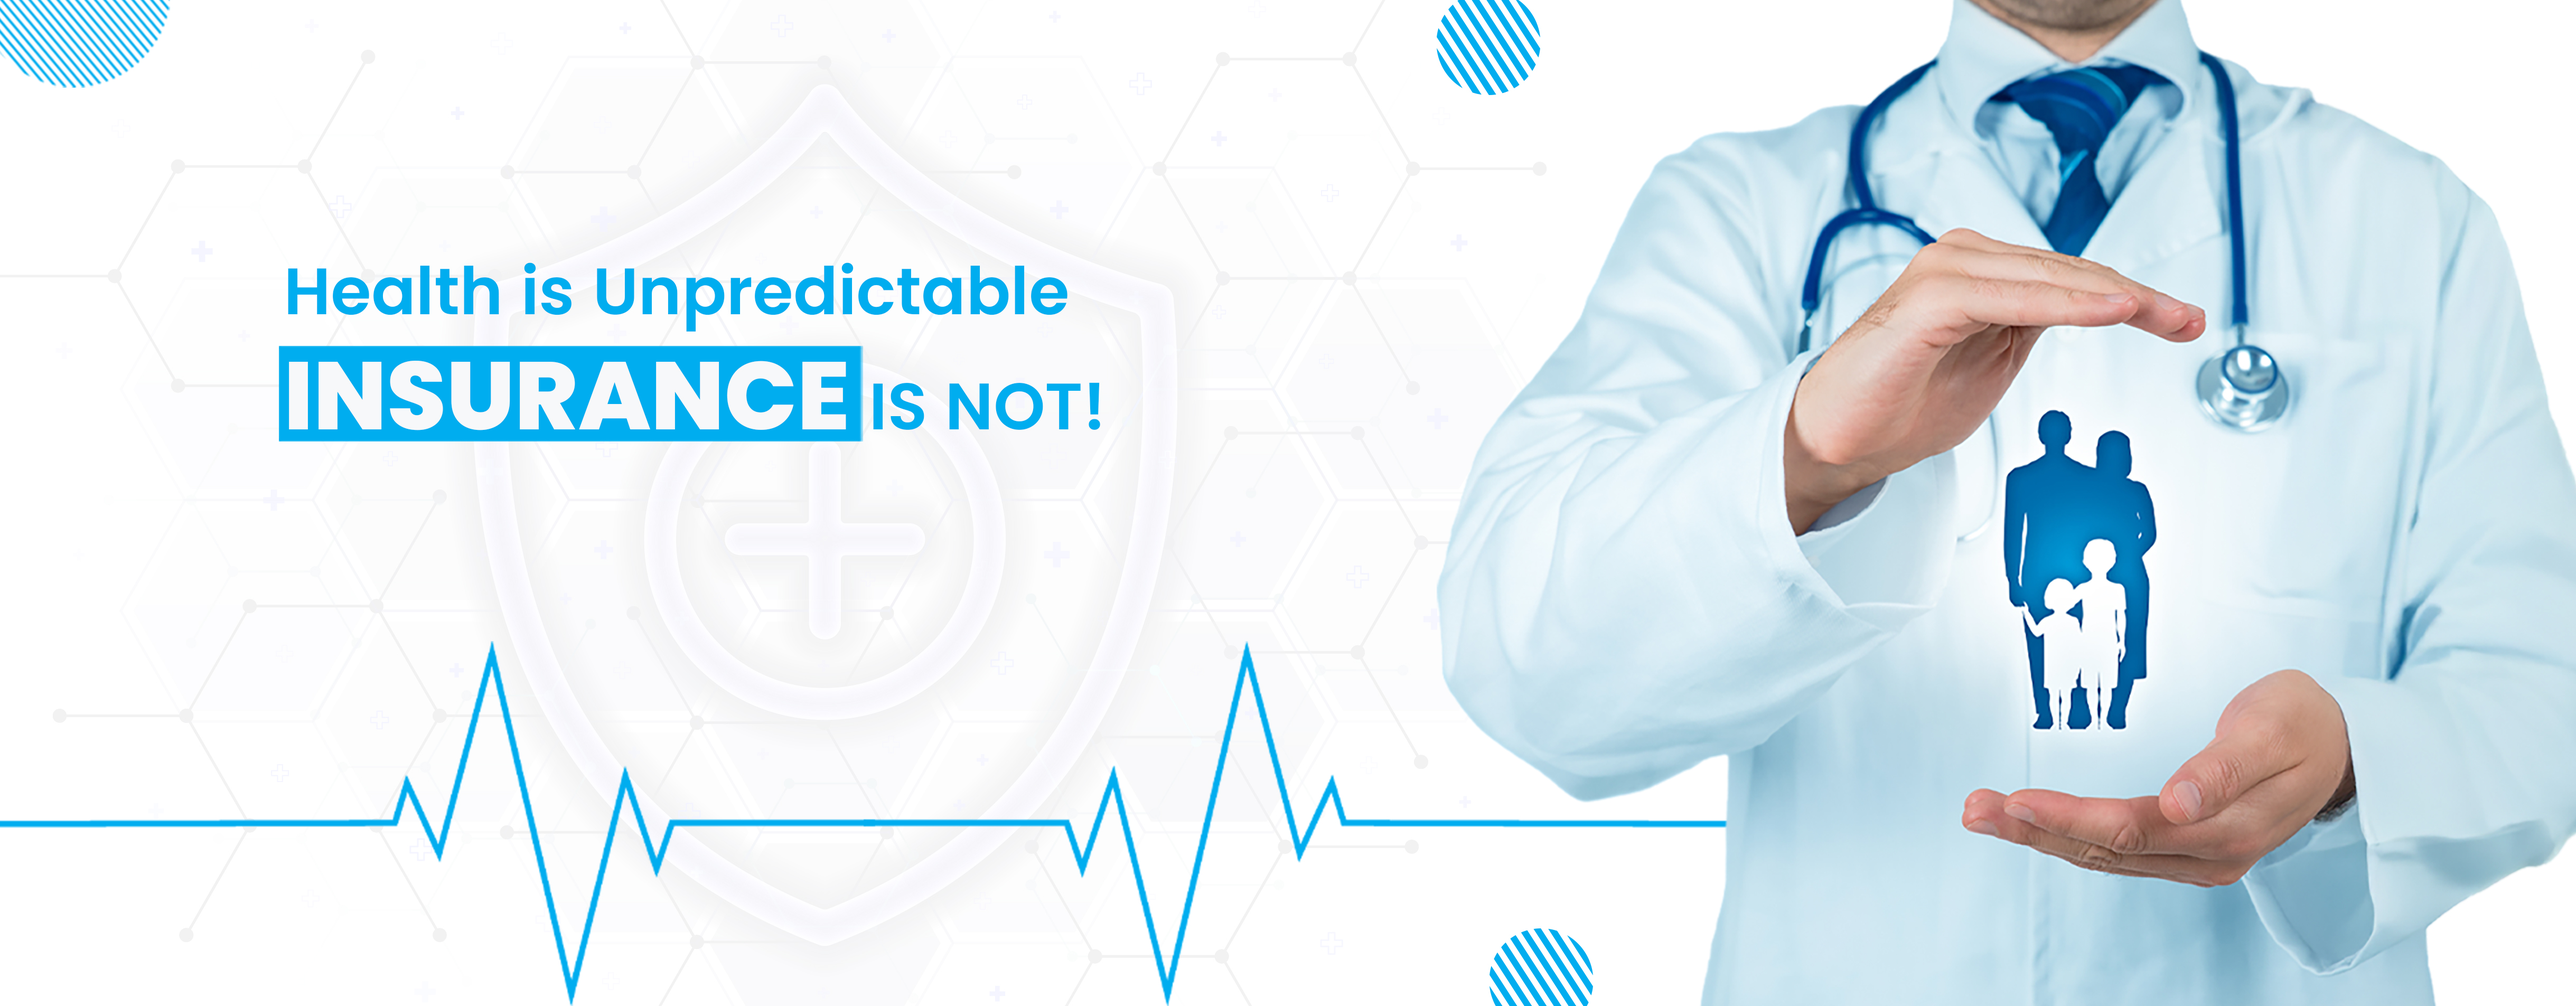
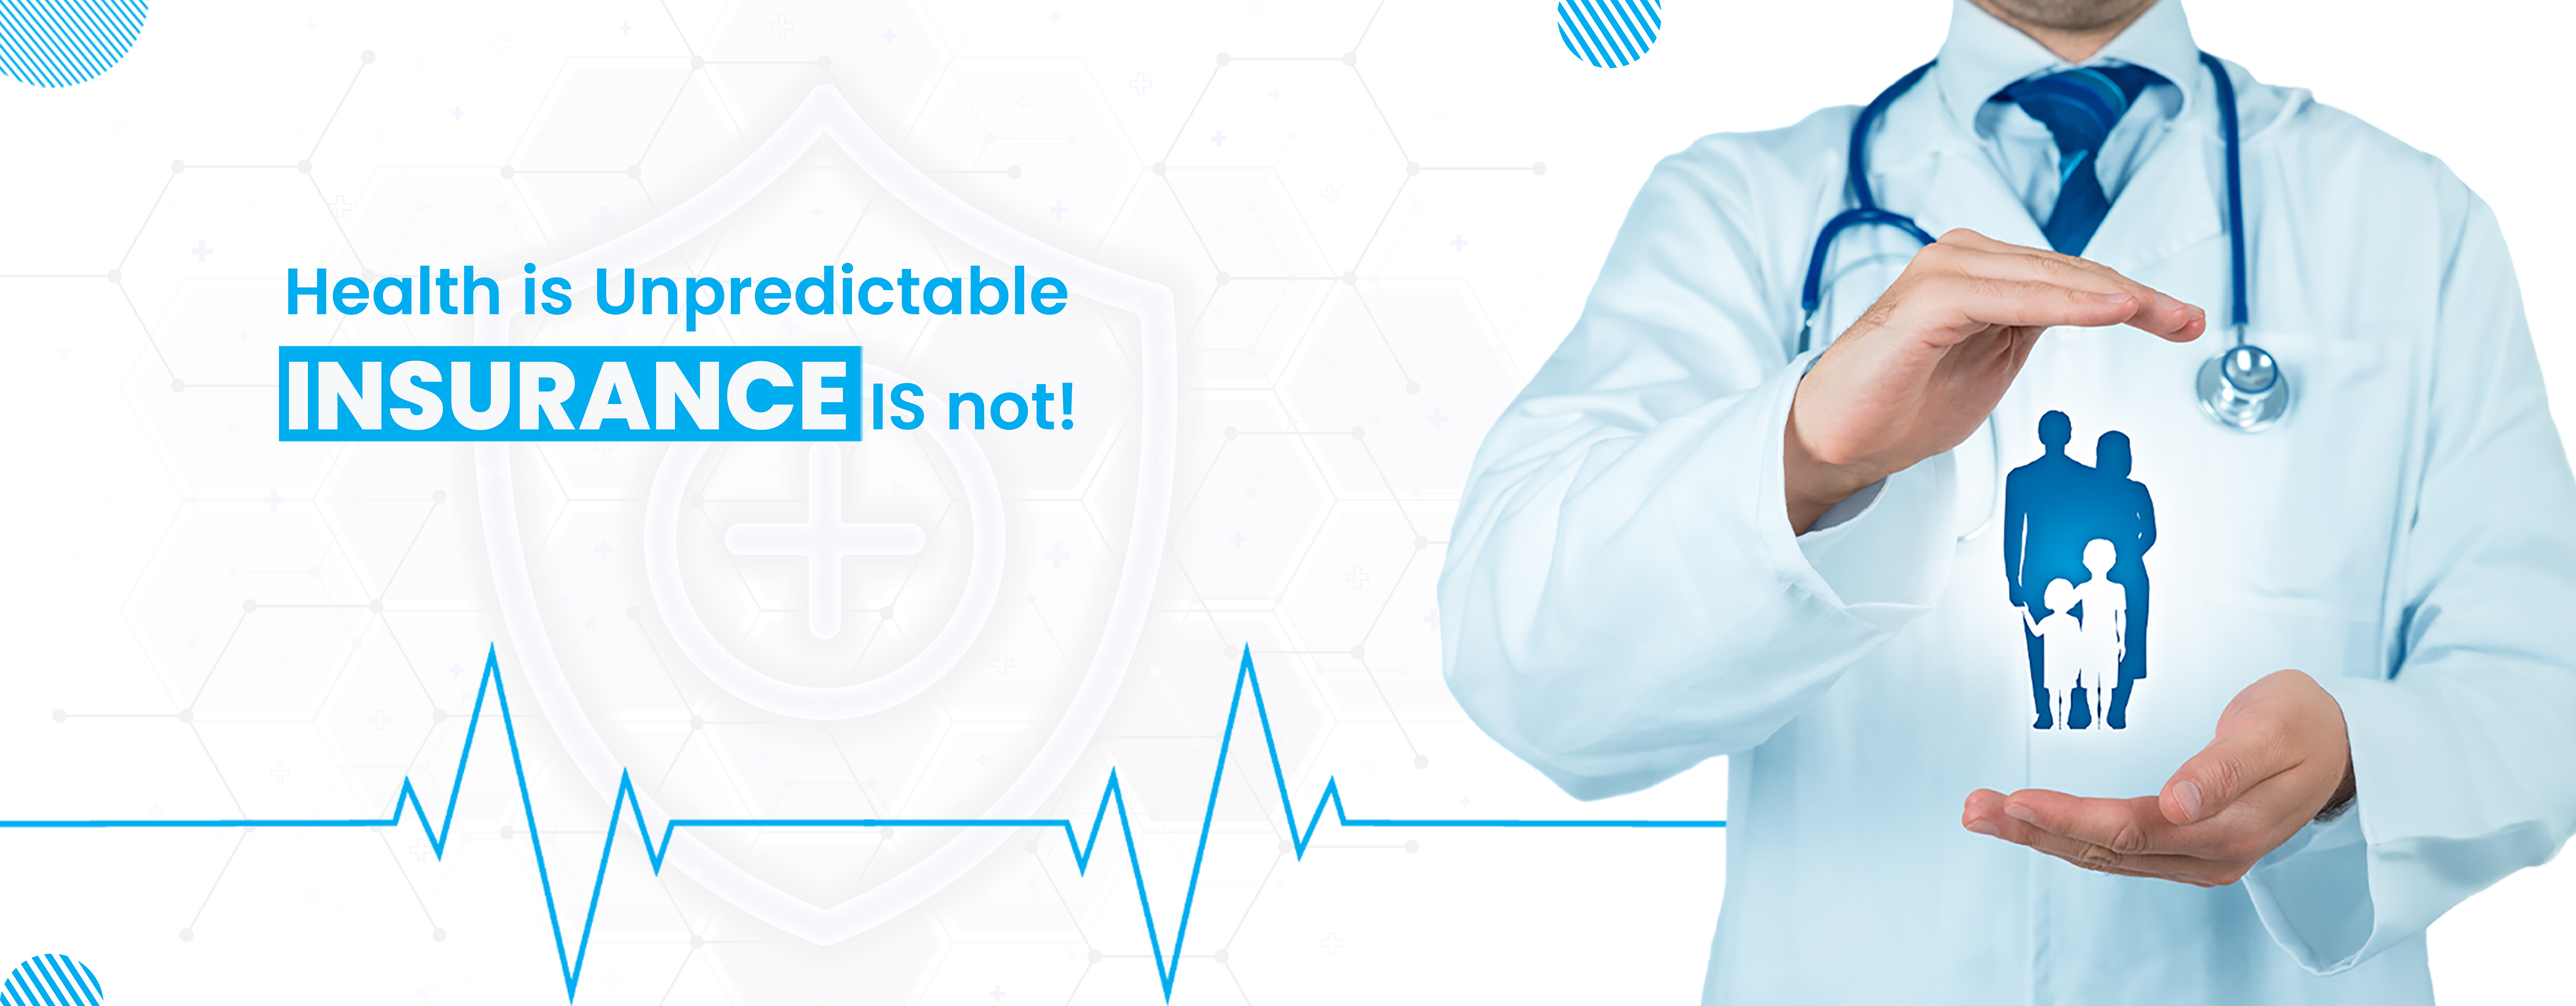
image change

diff --git a/components/Hero.tsx b/components/Hero.tsx
@@ -6,7 +6,7 @@ const Hero = () => {
             <div id="header-carousel" className="carousel slide" data-bs-ride="carousel">
                 <div className="carousel-inner">
                     <div className="carousel-item active">
-                        <img className="w-100" src="/img/carousel-1.jpg" alt="Image" />
+                        <img className="w-100" src="/img/carousel-1.jpeg" alt="Image" />
                     </div>
                     <div className="carousel-item">
                         <img className="w-100" src="/img/carousel-3.jpeg" alt="Image" />
